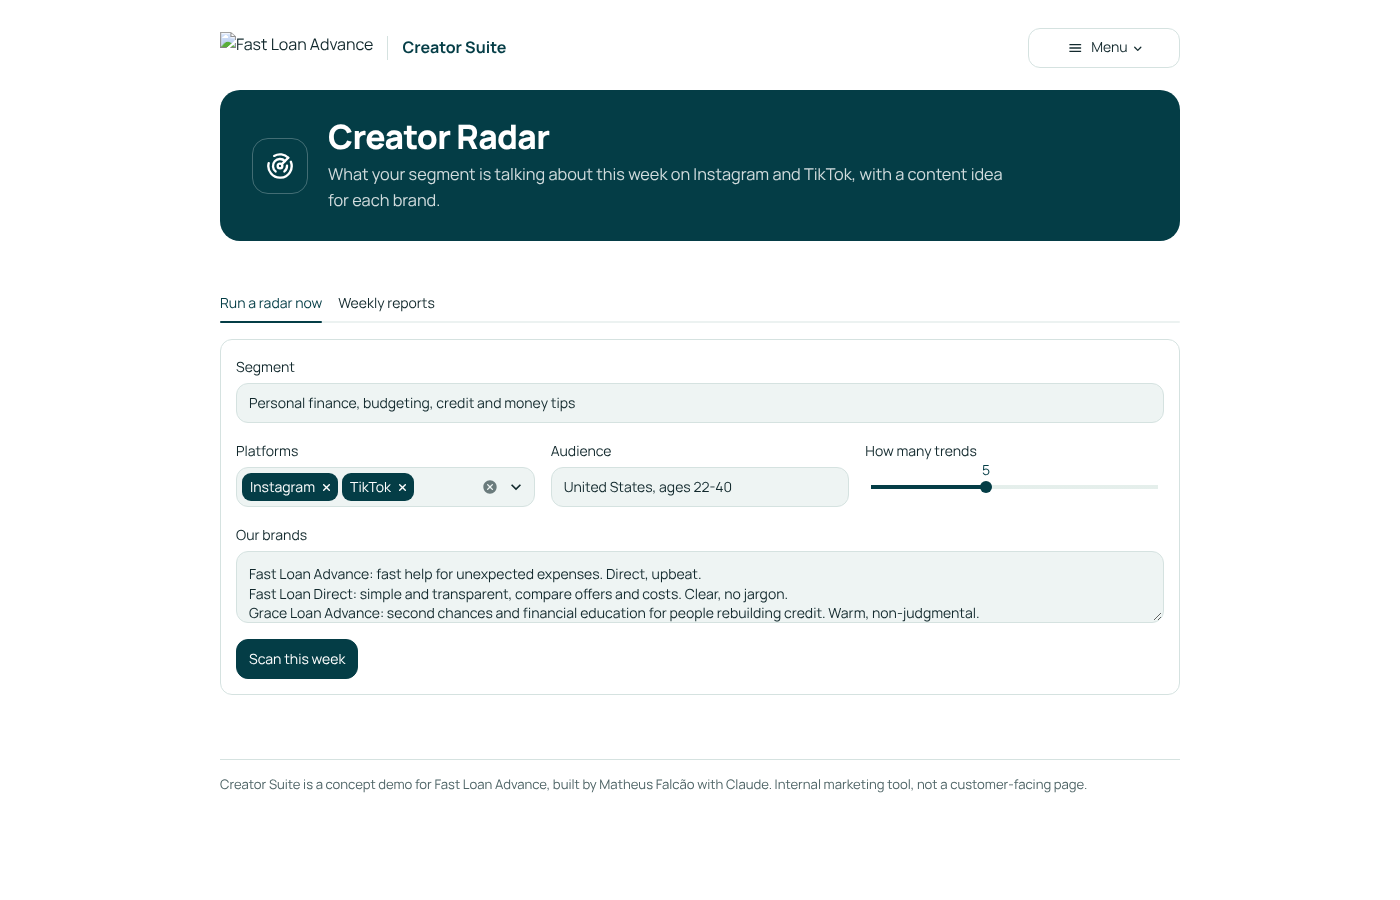
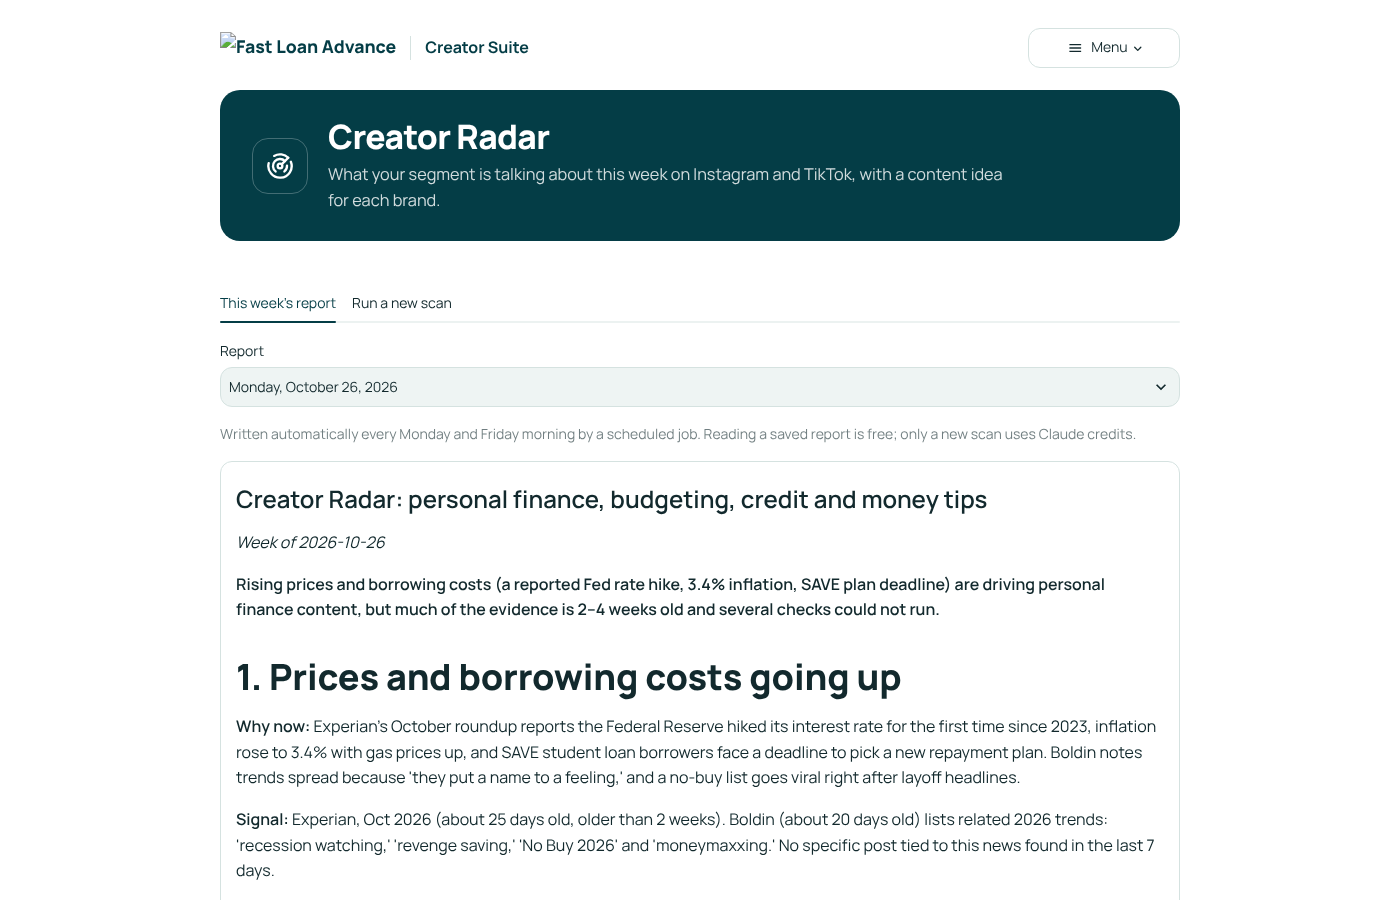
Lead with the saved radar report and tidy the ROI numbers
Home shows this week's top trends from the latest report. Creator Radar
opens on the saved report, which costs nothing to read, with a readable
date. ROI inputs drop the trailing decimals, money columns are formatted,
and tracking links default to the Fast Loan Advance site. A caption says
what is free and what uses Claude credits.

Claude-Session: https://claude.ai/code/session_01GsFj1HvsasgLCrXsYE9AYZ

Changed region(s): [[0.1536, 0.3733, 0.8293, 0.9956], [0.1536, 0.0311, 0.3686, 0.0622], [0.1536, 0.3111, 0.3071, 0.3422]]

diff --git a/views/roi.py b/views/roi.py
@@ -21,11 +21,11 @@ tab_one, tab_many, tab_links, tab_brief = st.tabs(
 
 with tab_one:
     c1, c2, c3, c4, c5 = st.columns(5)
-    fee = c1.number_input("Creator fee ($)", min_value=0.0, value=1500.0, step=100.0)
-    views = c2.number_input("Expected views", min_value=0.0, value=80000.0, step=5000.0)
-    ctr = c3.number_input("Link CTR (%)", min_value=0.0, value=1.0, step=0.1) / 100
-    lead_rate = c4.number_input("Click → lead (%)", min_value=0.0, value=8.0, step=0.5) / 100
-    rpl = c5.number_input("Revenue per lead ($)", min_value=0.0, value=35.0, step=1.0)
+    fee = c1.number_input("Creator fee ($)", min_value=0, value=1500, step=100)
+    views = c2.number_input("Expected views", min_value=0, value=80000, step=5000)
+    ctr = c3.number_input("Link CTR (%)", min_value=0.0, value=1.0, step=0.1, format="%.1f") / 100
+    lead_rate = c4.number_input("Click → lead (%)", min_value=0.0, value=8.0, step=0.5, format="%.1f") / 100
+    rpl = c5.number_input("Revenue per lead ($)", min_value=0, value=35, step=1)
     plan = Plan(fee, views, ctr, lead_rate, rpl)
 
     base = project(plan)
@@ -51,13 +51,24 @@ with tab_one:
                 "Scenario": name,
                 "Clicks": round(o.clicks),
                 "Leads": round(o.leads),
-                "Revenue": money(o.revenue),
-                "Profit": money(o.profit),
-                "ROI": "n/a" if o.roi is None else f"{o.roi:.0%}",
-                "Cost per lead": money(o.cost_per_lead),
+                "Revenue": o.revenue,
+                "Profit": o.profit,
+                "ROI": None if o.roi is None else o.roi * 100,
+                "Cost per lead": o.cost_per_lead,
             }
         )
-    st.dataframe(pd.DataFrame(rows), hide_index=True, use_container_width=True)
+    st.dataframe(
+        pd.DataFrame(rows),
+        hide_index=True,
+        width="stretch",
+        column_config={
+            "Clicks": st.column_config.NumberColumn(format="localized"),
+            "Revenue": st.column_config.NumberColumn(format="dollar"),
+            "Profit": st.column_config.NumberColumn(format="dollar"),
+            "ROI": st.column_config.NumberColumn(format="%.0f%%"),
+            "Cost per lead": st.column_config.NumberColumn(format="dollar"),
+        },
+    )
     st.caption("Pessimistic and optimistic scale clicks by 0.5x and 1.5x. Use your own past campaign data when you have it.")
 
 with tab_many:
@@ -81,7 +92,7 @@ with tab_many:
             ]
         )
     rpl_many = st.number_input("Revenue per lead ($)", min_value=0.0, value=35.0, step=1.0, key="rpl_many")
-    table = st.data_editor(start, num_rows="dynamic", hide_index=True, use_container_width=True)
+    table = st.data_editor(start, num_rows="dynamic", hide_index=True, width="stretch")
 
     results = []
     for _, r in table.dropna(subset=["Fee ($)"]).iterrows():
@@ -105,11 +116,11 @@ with tab_many:
         t2.metric("Total leads", f"{out['Leads'].sum():,}")
         t3.metric("Campaign profit", money(total_profit))
         out["Profit"] = out["Profit"].apply(money)
-        st.dataframe(out, hide_index=True, use_container_width=True)
+        st.dataframe(out, hide_index=True, width="stretch")
 
 with tab_links:
     st.markdown("Give every creator their own link, so you know who actually brings leads.")
-    base_url = st.text_input("Landing page URL", value="https://www.example.com/apply")
+    base_url = st.text_input("Landing page URL", value="https://www.fastloanadvance.com/")
     campaign = st.text_input("Campaign name", value="creators-q4")
     default_handles = (
         "\n".join(f"{r['platform']},{r['handle'] or r['name']}" for r in seeded)
@@ -124,7 +135,7 @@ with tab_links:
             links.append({"Creator": handle, "Platform": platform, "Link": utm_link(base_url, platform, campaign, handle)})
     if links:
         links_df = pd.DataFrame(links)
-        st.dataframe(links_df, hide_index=True, use_container_width=True)
+        st.dataframe(links_df, hide_index=True, width="stretch")
         st.download_button("Download links CSV", links_df.to_csv(index=False).encode(), "utm-links.csv", "text/csv")
         st.caption("In GA4, filter by utm_medium = influencer and break down by utm_content to see leads per creator.")
 

diff --git a/views/radar.py b/views/radar.py
@@ -1,16 +1,21 @@
-from pathlib import Path
-
 import streamlit as st
 
 from core.llm import get_client, reset_cost, run_cost
-from core.radar import DEFAULT_BRANDS, build_prompt, research, structure, to_markdown, today
+from core.radar import (
+    DEFAULT_BRANDS,
+    build_prompt,
+    report_date,
+    research,
+    saved_reports,
+    structure,
+    to_markdown,
+    today,
+)
 from core.ui import header
 
 header("radar", "Creator Radar", "What your segment is talking about this week on Instagram and TikTok, with a content idea for each brand.")
 
-REPORTS = Path(__file__).parent.parent / "reports"
-
-tab_run, tab_archive = st.tabs(["Run a radar now", "Weekly reports"])
+tab_archive, tab_run = st.tabs(["This week's report", "Run a new scan"])
 
 with tab_run:
     with st.form("radar"):
@@ -48,9 +53,16 @@ with tab_run:
         )
 
 with tab_archive:
-    files = sorted(REPORTS.glob("*.md"), reverse=True) if REPORTS.exists() else []
+    files = saved_reports()
     if not files:
         st.info("No weekly reports yet. The first one is generated automatically on the next Monday or Friday.")
     else:
-        choice = st.selectbox("Report", files, format_func=lambda p: p.stem)
-        st.markdown(choice.read_text())
+        choice = st.selectbox("Report", files, format_func=report_date)
+        st.caption(
+            "Written automatically every Monday and Friday morning by a scheduled job. "
+            "Reading a saved report is free; only a new scan uses Claude credits."
+        )
+        with st.container(border=True):
+            # The page banner already names the tool, so the report's own title becomes a small heading.
+            text = choice.read_text()
+            st.markdown("#### " + text[2:] if text.startswith("# ") else text)

diff --git a/views/home.py b/views/home.py
@@ -1,5 +1,8 @@
+from html import escape
+
 import streamlit as st
 
+from core.radar import report_date, report_trends, saved_reports
 from core.roi import Plan, project
 from core.ui import PAGES, icon
 
@@ -18,6 +21,17 @@ st.html(
     f'<div class="win"><b>+${out.profit:,.0f}</b><span>profit on a ${example.fee:,.0f} post</span></div>'
     "</div></div>"
 )
+
+reports = saved_reports()
+if reports:
+    with st.container(border=True):
+        left, right = st.columns([5, 1], vertical_alignment="center")
+        trends = "".join(f"<li>{escape(t)}</li>" for t in report_trends(reports[0])[:3])
+        left.html(
+            f'<div class="latest"><span>Top trends this week, from the Radar report of {report_date(reports[0])}</span>'
+            f"<ol>{trends}</ol></div>"
+        )
+        right.page_link(PAGES[1][0], label="Read", icon=":material/arrow_forward:", icon_position="right")
 
 TOOLS = [
     (
@@ -53,3 +67,8 @@ for (name, text), (path, title, *_, question) in zip(TOOLS, PAGES[1:]):
                 f'<div><h3>{title}</h3><div class="q">{question}</div><p>{text}</p></div></div>'
             )
         right.page_link(path, label="Open", icon=":material/arrow_forward:", icon_position="right")
+
+st.caption(
+    "Opening the suite and using the ROI Planner is free. Claude runs only when you press a research button, "
+    "at about $1 a scan, and every result shows what it cost."
+)

diff --git a/core/ui.py b/core/ui.py
@@ -28,7 +28,7 @@ CSS = """
 .block-container {padding-top: 1.6rem; max-width: 1120px;}
 header[data-testid="stHeader"] {display: none;}
 .topbar {display: flex; align-items: center; gap: 14px; min-height: 44px;}
-.topbar img {height: 32px; width: auto;}
+.topbar img {height: 32px; width: auto; color: var(--teal); font-weight: 800; font-size: 1.1rem;}
 .topbar .sep {width: 1px; height: 24px; background: var(--line);}
 .topbar .suite {font-weight: 700; color: var(--teal); font-size: 1rem;}
 .band {background: var(--teal); color: #fff; border-radius: 20px; padding: 28px 32px; margin: 4px 0 1.6rem;}
@@ -43,6 +43,8 @@ header[data-testid="stHeader"] {display: none;}
 .chain b {display: block; font-size: 1.7rem; font-weight: 800; letter-spacing: -.02em;}
 .chain span {color: rgba(255,255,255,.7); font-size: .88rem;}
 .chain .win b {color: #7BE3BC;}
+.latest span {color: var(--signal); font-weight: 700; font-size: .92rem;}
+.latest ol {color: var(--teal); font-weight: 700; font-size: 1.05rem; line-height: 1.6; margin: 6px 0 0; padding-left: 1.3rem;}
 .tool {display: flex; gap: 18px; align-items: flex-start;}
 .tool-icon {flex: 0 0 48px; height: 48px; border-radius: 14px; background: var(--mist); display: flex;
   align-items: center; justify-content: center;}

diff --git a/core/radar.py b/core/radar.py
@@ -130,6 +130,32 @@ def to_markdown(report: RadarReport, segment: str, today: dt.date) -> str:
     return "\n".join(lines)
 
 
+REPORTS = Path(__file__).parent.parent / "reports"
+
+
+def saved_reports() -> list[Path]:
+    """Reports written by the scheduled run, newest first. Reading them costs nothing."""
+    return sorted(REPORTS.glob("*.md"), reverse=True) if REPORTS.exists() else []
+
+
+def report_date(path: Path) -> str:
+    """'Monday, October 26, 2026' from a file named 2026-10-26-segment.md."""
+    try:
+        day = dt.date.fromisoformat(path.name[:10])
+    except ValueError:
+        return path.stem
+    return f"{day:%A, %B} {day.day}, {day.year}"
+
+
+def report_trends(path: Path) -> list[str]:
+    """Trend titles from the '## 1. Topic' headings of a report."""
+    return [
+        line.split(". ", 1)[1]
+        for line in path.read_text().splitlines()
+        if line.startswith("## ") and line[3:4].isdigit() and ". " in line
+    ]
+
+
 def today() -> dt.date:
     """The team works in Los Angeles."""
     return dt.datetime.now(tz=ZoneInfo("America/Los_Angeles")).date()

diff --git a/tests/test_radar.py b/tests/test_radar.py
@@ -30,3 +30,11 @@ def test_to_markdown_lists_trends_and_sources():
 
 def test_slug():
     assert slug("Personal finance, budgeting & credit") == "personal-finance-budgeting-credit"
+
+
+def test_saved_reports_have_a_date_and_headline():
+    from core.radar import report_date, report_trends, saved_reports
+
+    latest = saved_reports()[0]
+    assert report_date(latest).split(",")[0] in {"Monday", "Tuesday", "Wednesday", "Thursday", "Friday", "Saturday", "Sunday"}
+    assert len(report_trends(latest)) >= 3
